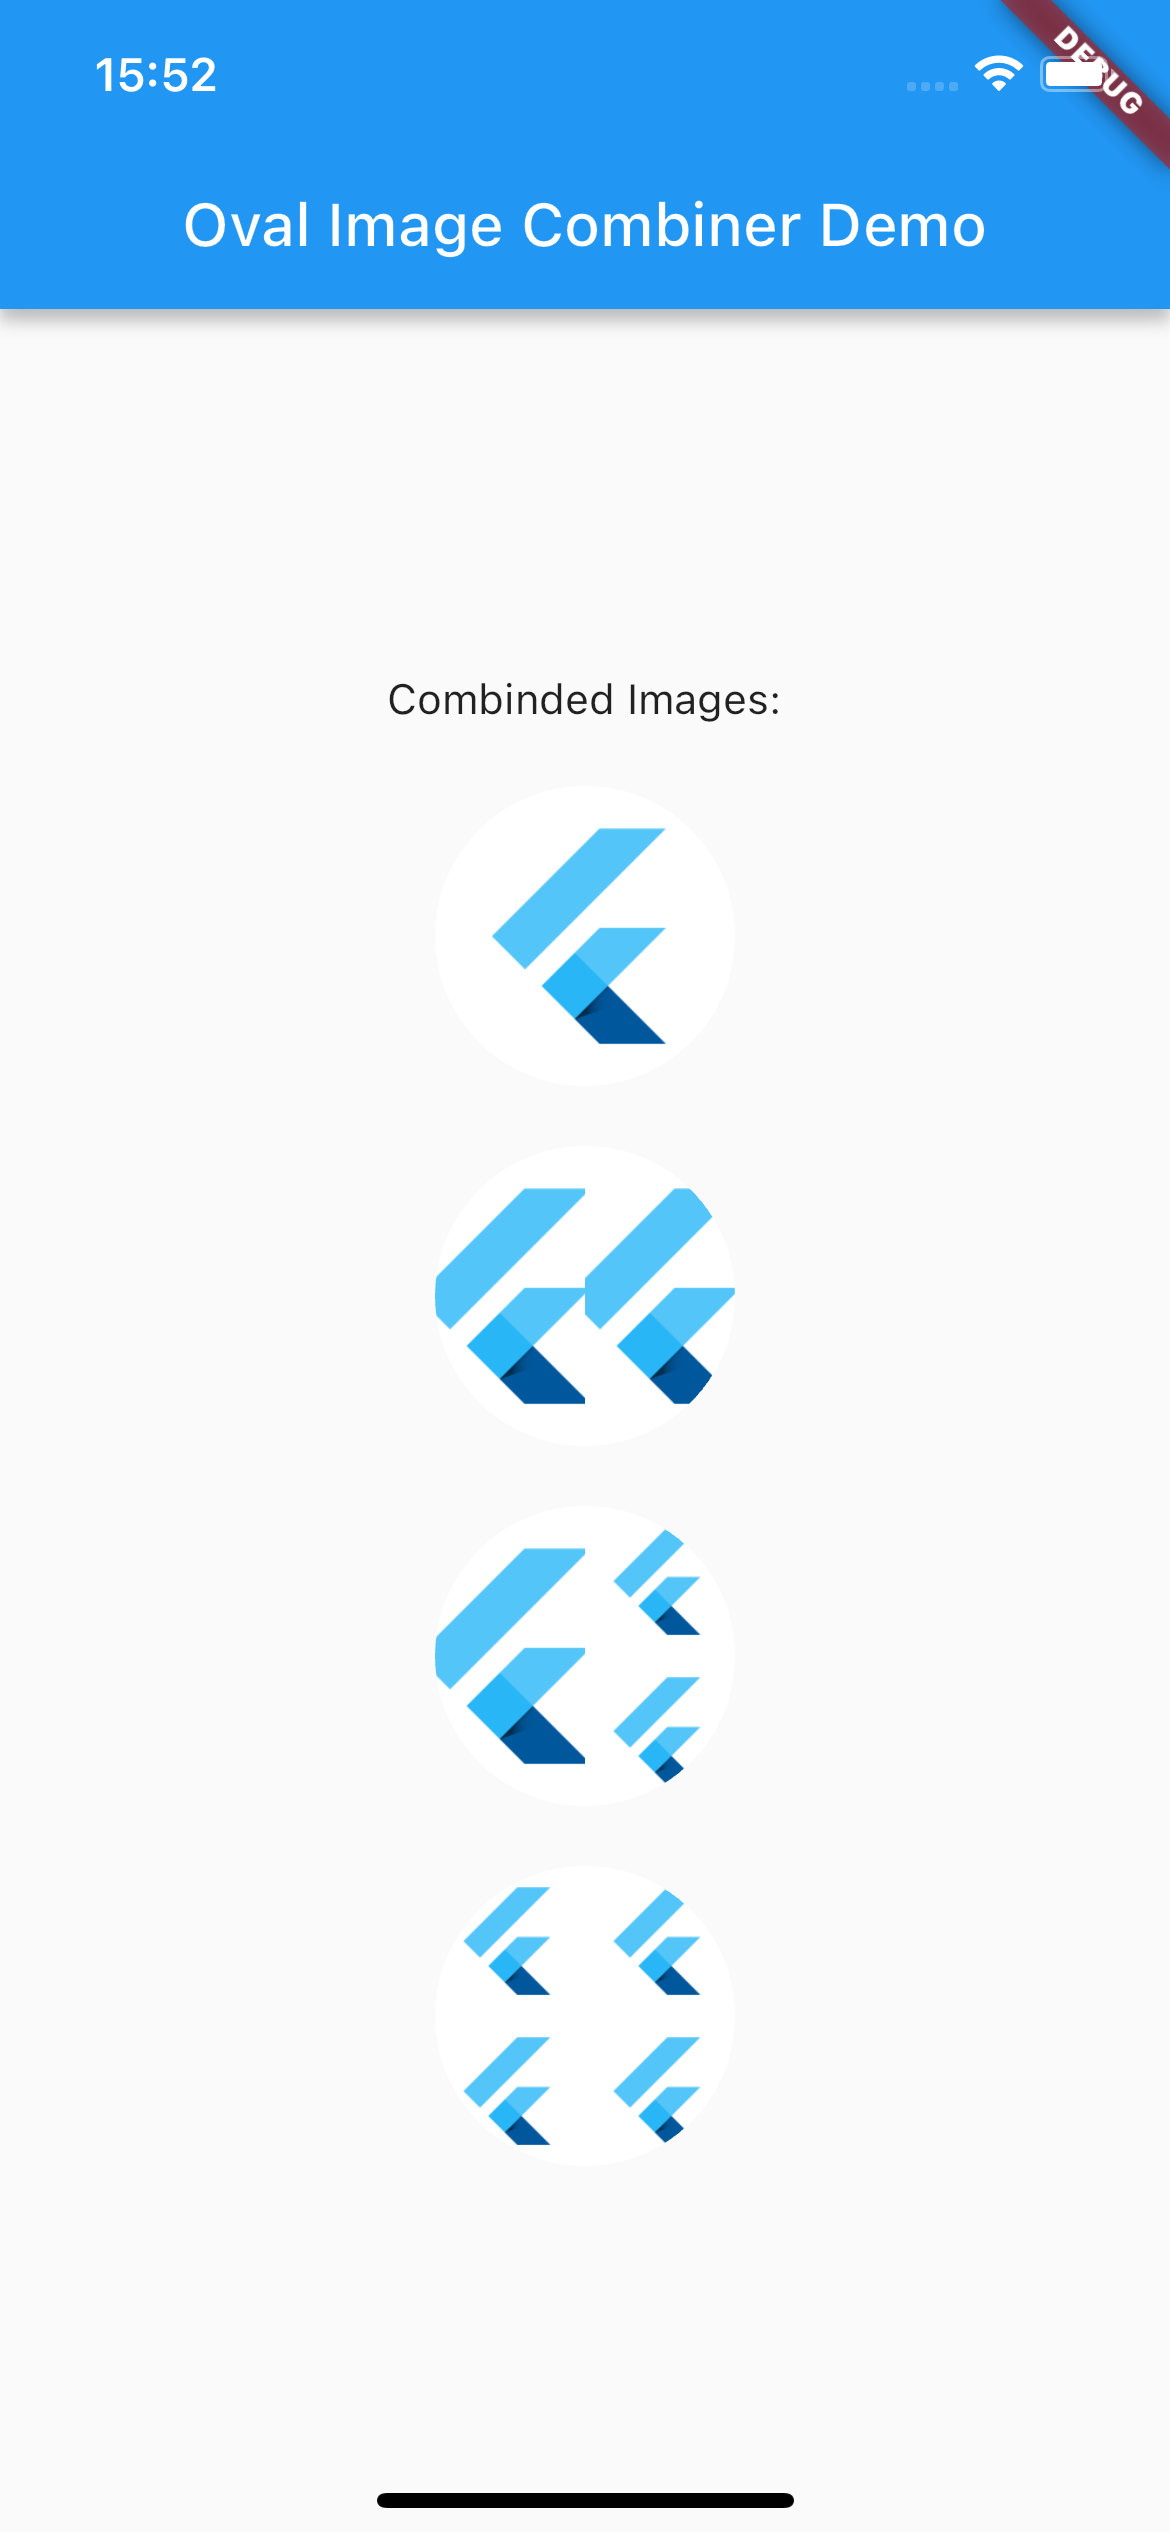
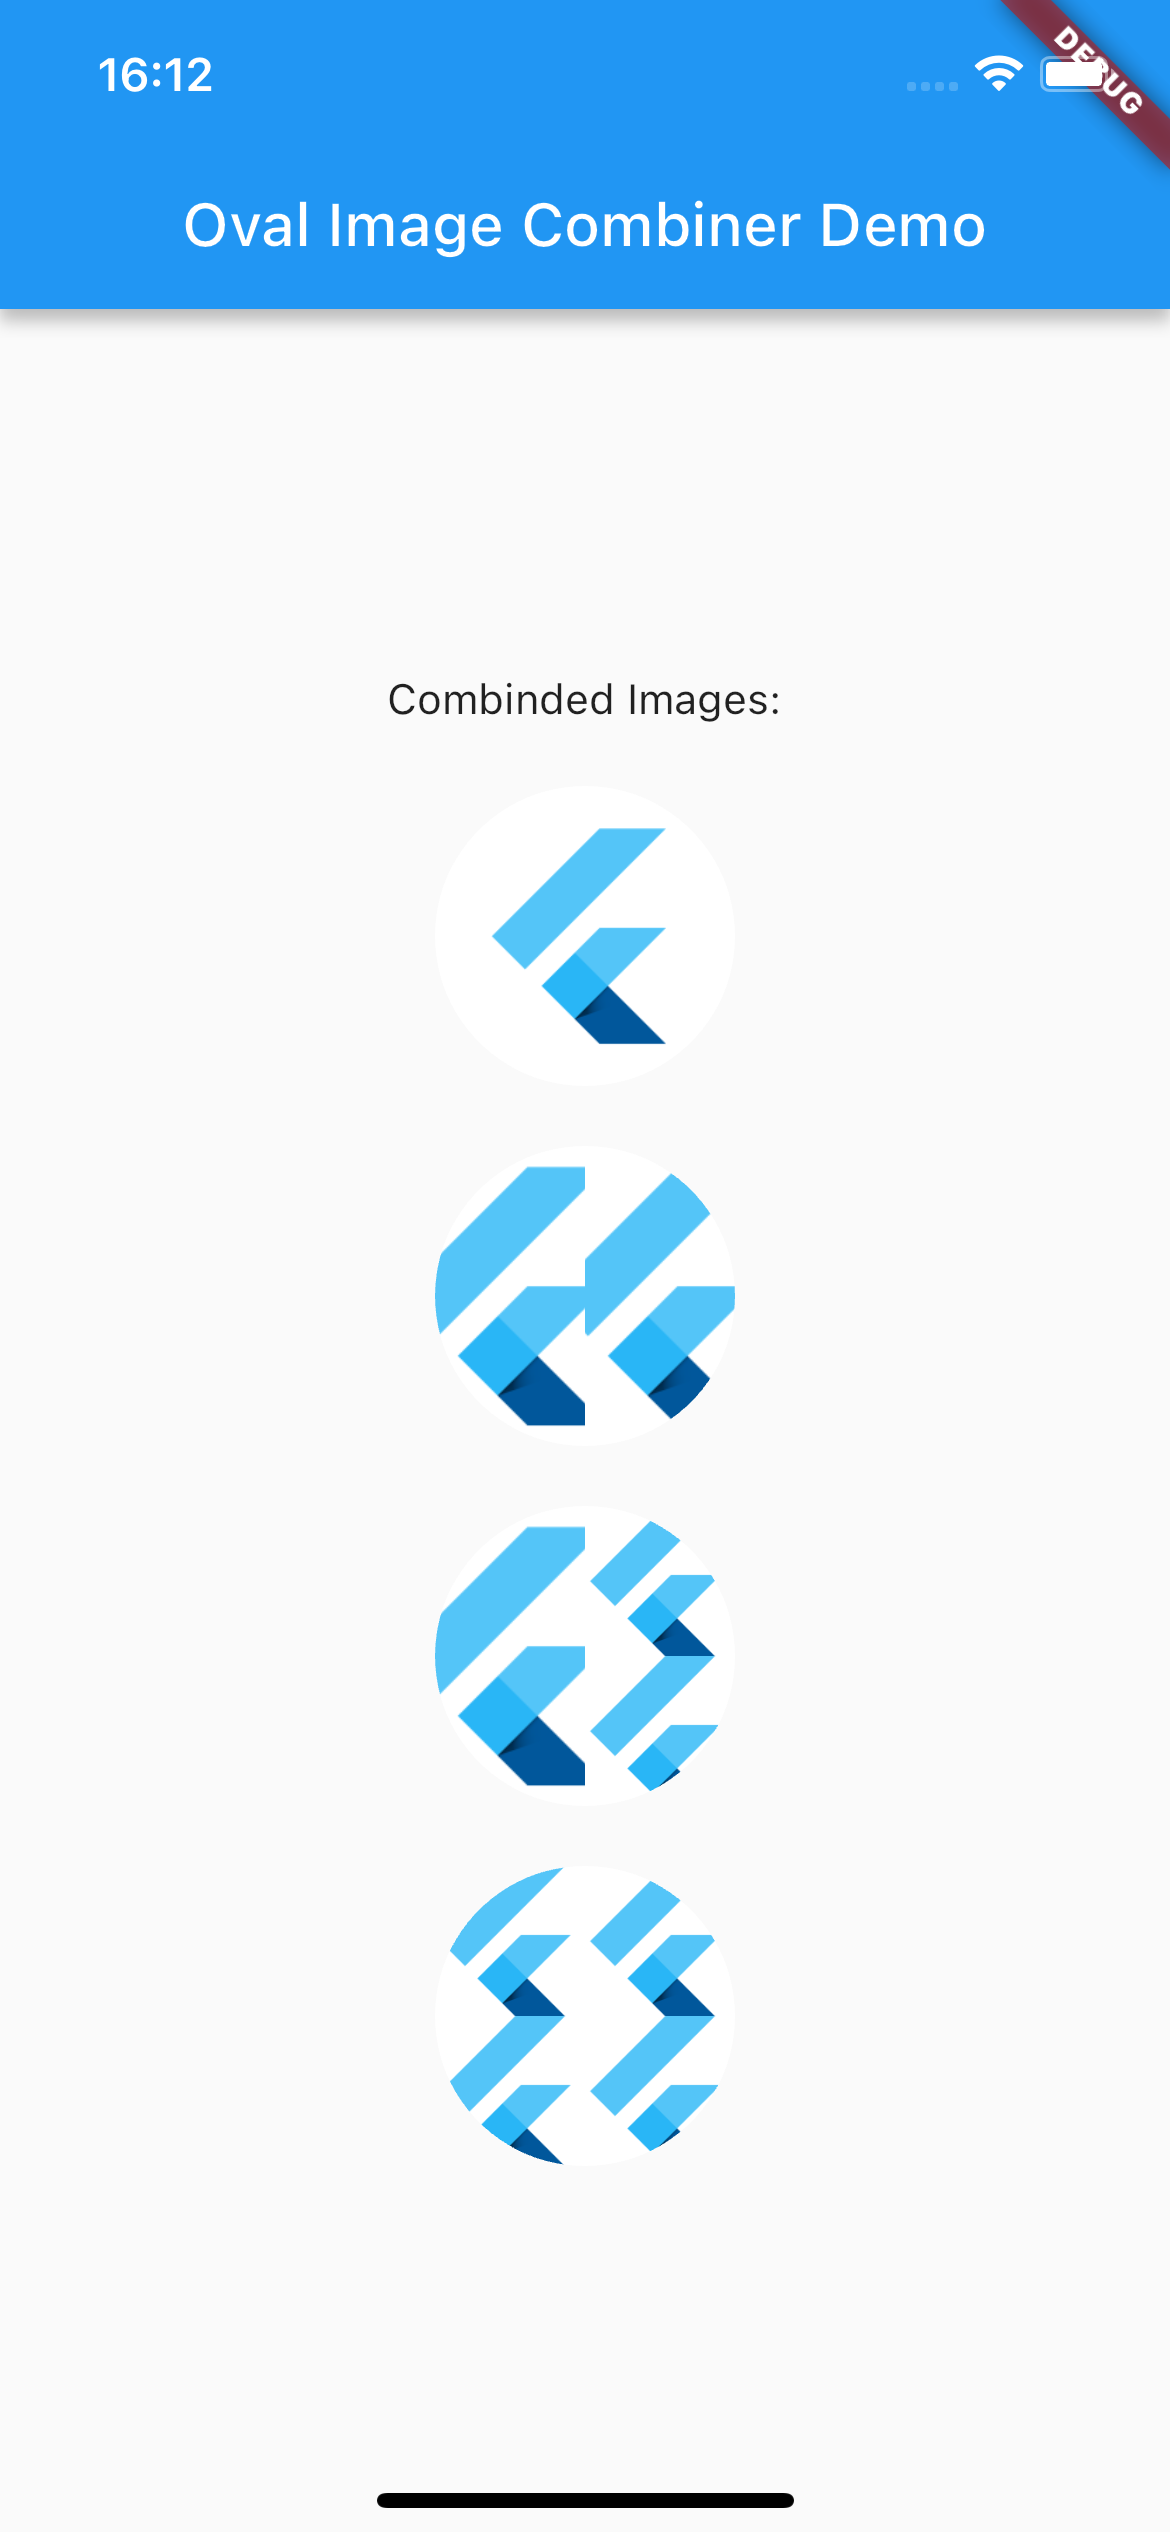
Fix image size

Changed region(s): [[0.3692, 0.5928, 0.6154, 0.8736], [0.3692, 0.4368, 0.6154, 0.5616], [0.0923, 0.0, 0.1846, 0.0312]]

diff --git a/lib/oval_image_combiner.dart b/lib/oval_image_combiner.dart
@@ -69,6 +69,7 @@ class OvalImageCombiner extends StatelessWidget {
                   imageUrl: imageUrl1,
                   width: _imageHalfSize,
                   height: imageSize,
+                  scale: 1.2,
                 ),
               ),
             ),
@@ -81,6 +82,7 @@ class OvalImageCombiner extends StatelessWidget {
                   imageUrl: imageUrl2,
                   width: _imageHalfSize,
                   height: imageSize,
+                  scale: 1.2,
                 ),
               ),
             ),
@@ -110,6 +112,7 @@ class OvalImageCombiner extends StatelessWidget {
                   imageUrl: imageUrl1,
                   width: imageSize,
                   height: imageSize,
+                  scale: 1.2,
                 ),
               ),
             ),
@@ -123,6 +126,7 @@ class OvalImageCombiner extends StatelessWidget {
                   imageUrl: imageUrl2,
                   width: _imageHalfSize,
                   height: _imageHalfSize,
+                  scale: 1.5,
                 ),
               ),
             ),
@@ -136,6 +140,7 @@ class OvalImageCombiner extends StatelessWidget {
                   imageUrl: imageUrl3,
                   width: _imageHalfSize,
                   height: _imageHalfSize,
+                  scale: 1.5,
                 ),
               ),
             ),
@@ -165,6 +170,7 @@ class OvalImageCombiner extends StatelessWidget {
                   imageUrl: imageUrl1,
                   width: _imageHalfSize,
                   height: _imageHalfSize,
+                  scale: 1.5,
                 ),
               ),
             ),
@@ -176,6 +182,7 @@ class OvalImageCombiner extends StatelessWidget {
                   imageUrl: imageUrl2,
                   width: _imageHalfSize,
                   height: _imageHalfSize,
+                  scale: 1.5,
                 ),
               ),
             ),
@@ -187,6 +194,7 @@ class OvalImageCombiner extends StatelessWidget {
                   imageUrl: imageUrl3,
                   width: _imageHalfSize,
                   height: _imageHalfSize,
+                  scale: 1.5,
                 ),
               ),
             ),
@@ -198,6 +206,7 @@ class OvalImageCombiner extends StatelessWidget {
                   imageUrl: imageUrl4,
                   width: _imageHalfSize,
                   height: _imageHalfSize,
+                  scale: 1.5,
                 ),
               ),
             ),
@@ -211,23 +220,25 @@ class OvalImageCombiner extends StatelessWidget {
     required String imageUrl,
     required double width,
     required double height,
+    double? scale = 1.0,
   }) {
     final isSvg = imageUrl.endsWith('.svg');
 
-    if (isSvg) {
-      return SvgPicture.network(
-        imageUrl,
-        width: width,
-        height: height,
-        fit: BoxFit.cover,
-      );
-    }
-
-    return Image.network(
-      imageUrl,
-      width: width,
-      height: height,
-      fit: BoxFit.cover,
+    return Transform.scale(
+      scale: scale,
+      child: (isSvg)
+          ? SvgPicture.network(
+              imageUrl,
+              width: width,
+              height: height,
+              fit: BoxFit.cover,
+            )
+          : Image.network(
+              imageUrl,
+              width: width,
+              height: height,
+              fit: BoxFit.cover,
+            ),
     );
   }
 }
